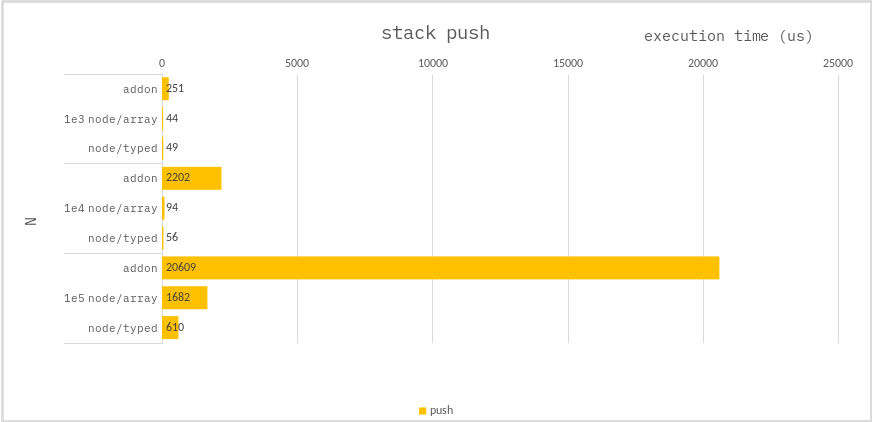
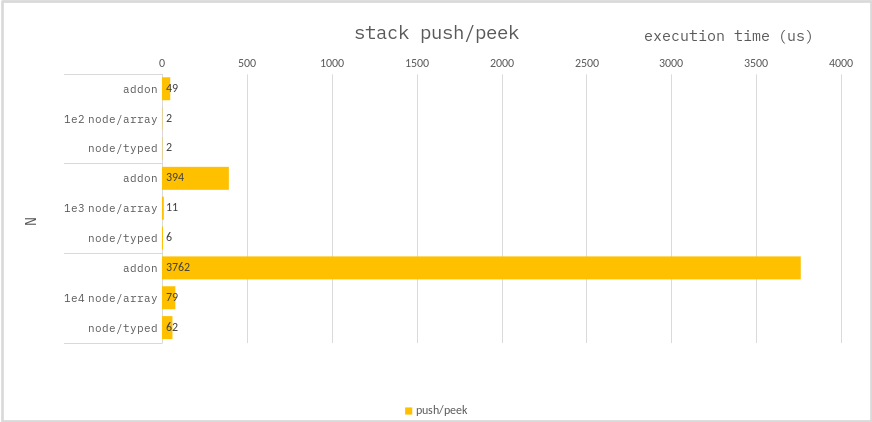
add comment, edit benchmark

diff --git a/3-1.ds-stack/src/index.ts b/3-1.ds-stack/src/index.ts
@@ -11,6 +11,7 @@ const targets: BenchmarkTargetGroup = [
             const addonStack = new AddonStack(N);
             for (let i = 0; i < N; i++) {
                 addonStack.push(i);
+                addonStack.top();
             }
 
             return {
@@ -25,6 +26,7 @@ const targets: BenchmarkTargetGroup = [
             const arrayStack = [];
             for (let i = 0; i < N; i++) {
                 arrayStack.push(i);
+                arrayStack[i];
             }
 
             return {
@@ -39,6 +41,7 @@ const targets: BenchmarkTargetGroup = [
             const typedStack = new TypedStack(N);
             for (let i = 0; i < N; i++) {
                 typedStack.push(i);
+                typedStack.top();
             }
 
             return {
@@ -61,7 +64,7 @@ function createParam(N: number): AddonParamType {
 //
 // start benchmark.
 const strcnt = [2, 3, 4].map((n) => Math.pow(10, n));
-const repeat = 1000;
+const repeat = 10000;
 strcnt.forEach((n) => {
     const param = createParam(n);
     benchmark(targets, param, repeat, `N: ${n}`);

diff --git a/3-1.ds-stack/src/typedstack.ts b/3-1.ds-stack/src/typedstack.ts
@@ -8,6 +8,9 @@ export class TypedStack {
         this.dat = new Int32Array(size);
     }
 
+    //
+    // push val into stack.
+    // returns false if no more elements can be inserted.
     push(val: number): boolean {
         if (this.idx !== this.max) {
             this.dat[this.idx++] = val;
@@ -16,6 +19,10 @@ export class TypedStack {
         return false;
     }
 
+    //
+    // pop val from stack.
+    // returns false if the stack is empty.
+    // otherwise returns true.
     pop(): boolean {
         if (this.idx !== 0) {
             --this.idx;
@@ -24,15 +31,22 @@ export class TypedStack {
         return false;
     }
 
+    //
+    // return top value of stack.
+    // return undefined if the stack is empty.
     top(): number | undefined {
         if (this.idx === 0) return undefined;
         return this.dat[this.idx - 1];
     }
 
+    //
+    // return stack is empty.
     empty(): boolean {
         return this.idx === 0;
     }
 
+    //
+    // return size of stack.
     size(): number {
         return this.idx;
     }

diff --git a/3-1.ds-stack/src/cppsrc/main.cpp b/3-1.ds-stack/src/cppsrc/main.cpp
@@ -10,6 +10,7 @@ class AddonStack : public Napi::ObjectWrap<AddonStack> {
 
         //
         // push val into stack.
+        // returns false if no more elements can be inserted.
         Napi::Value push(const Napi::CallbackInfo &info){
             auto env = info.Env();
             auto val = info[0].ToNumber().Int32Value();
@@ -36,7 +37,7 @@ class AddonStack : public Napi::ObjectWrap<AddonStack> {
 
         //
         // return top value of stack.
-        // return false if the stack is empty.
+        // return undefined if the stack is empty.
         Napi::Value top(const Napi::CallbackInfo &info){
             auto env = info.Env();
             if(idx != 0) {
